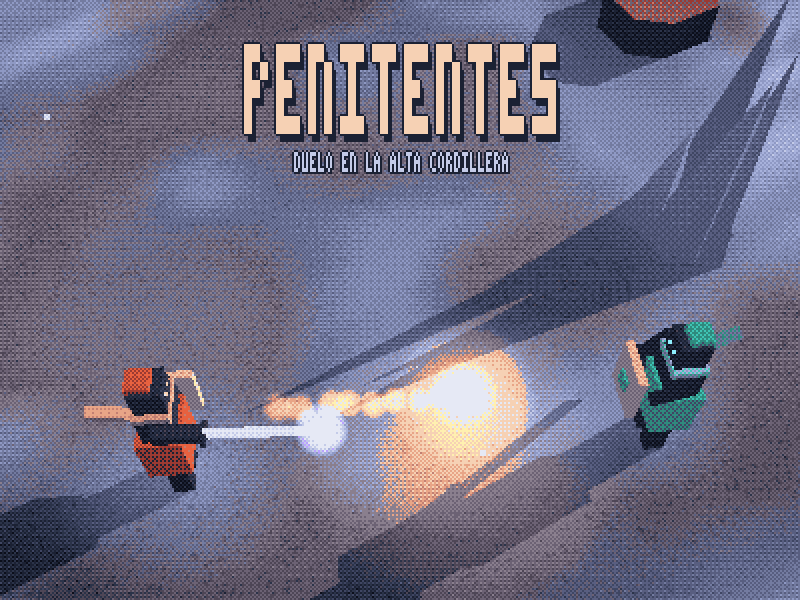
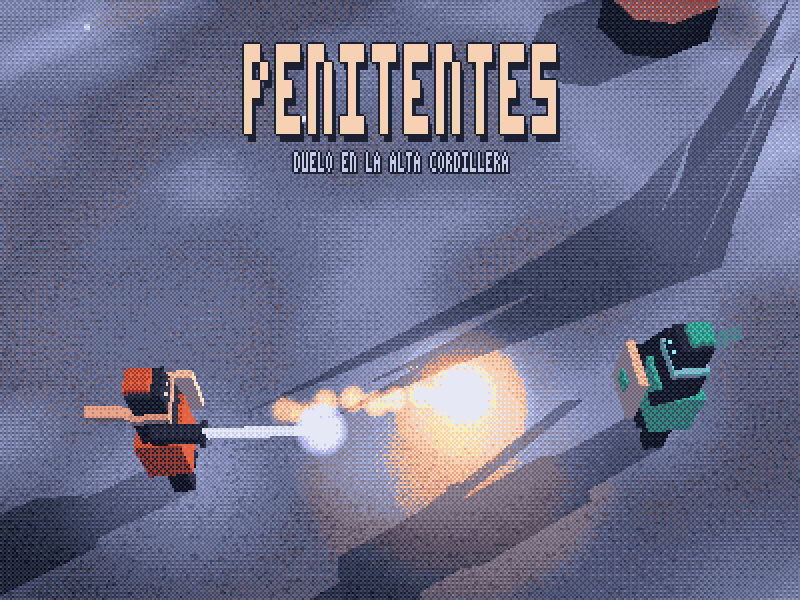
PENITENTES: cámara más lejana, estela suave, música y efectos según modo

diff --git a/game.js b/game.js
@@ -519,9 +519,9 @@ function genSnow(y0, y1) {
       if (pt > 0) {
         const q = hs(tx, ty) < 0.12 ? 0.78 : 1;
         const v = n2 * 36;
-        R = mix(R, 86 * q + v, pt);
+        R = mix(R, 82 * q + v, pt);
         G = mix(G, 82 * q + v, pt);
-        B = mix(B, 100 * q + v, pt);
+        B = mix(B, 108 * q + v, pt);
       }
       const wd = cl((vn(x * 0.16, z * 0.16 + 40) - 0.6) * 3, 0, 0.4);
       R += 16 * wd;
@@ -2442,7 +2442,7 @@ function camStep(dt) {
     const dz = pz(b) - pz(a);
     const s1 = abs(dx * cY - dz * sY);
     const s2 = abs(dx * sY + dz * cY);
-    d = cl(6.5 + max(s1 * 1.05, s2 * 1.55), 10, 23);
+    d = cl(8 + max(s1 * 1.05, s2 * 1.55), 12.5, 24);
     yw = 0.14 * sin(T * 0.06);
     pt = 0.98;
     if (phase === 'ko' && PT < 0.6) {
@@ -2514,8 +2514,8 @@ function render() {
       if (!P(t1[0], t1[1], t1[2])) continue;
       const c = [_x, _y, _z];
       if (!P(h1[0], h1[1], h1[2])) continue;
-      const k = (1 - i / tr.length) * 0.75;
-      const col = sc3(f.cmb === 2 ? 0xfff0c0 : 0xd8e4ff, k);
+      const k = (1 - i / tr.length) * 0.42;
+      const col = sc3(f.cmb === 2 ? 0xffd890 : 0xa8c8ff, k);
       const col2 = sc3(col, 0.3);
       tri(a[0], a[1], a[2] + 0.02, b[0], b[1], b[2] + 0.02, c[0], c[1], c[2] + 0.02, col2, col, col, 1);
       tri(a[0], a[1], a[2] + 0.02, c[0], c[1], c[2] + 0.02, _x, _y, _z + 0.02, col2, col, col2, 1);
